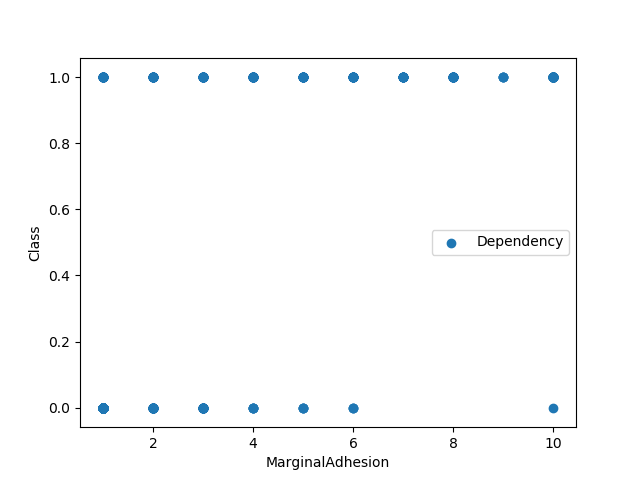
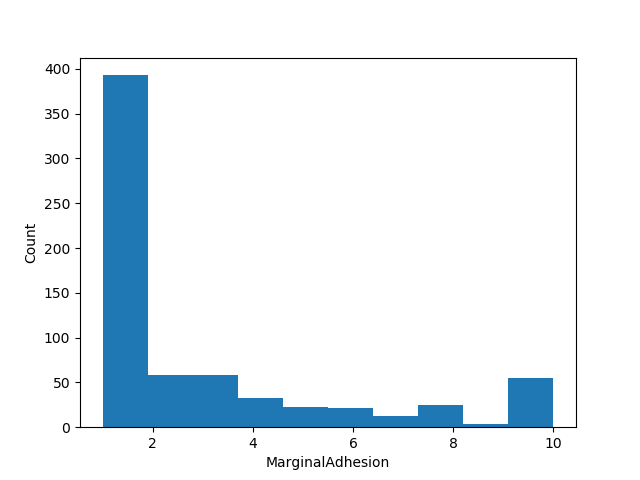
final touches (graph changes)

diff --git a/hist.py b/hist.py
@@ -1,102 +1,88 @@
 import pandas as pd
 import numpy as np
 import matplotlib.pyplot as plt
+from sklearn import preprocessing
 
 df = pd.read_csv('biopsy.csv')
 
 X = df[['ClumpThickness', 'UniformityOfCellSize', 'UniformityOfCellShape', 'MarginalAdhesion', 'EpithelialCellSize', 'BareNuclei', 'BlandChromatin', 'NormalNucleoli', 'Mitoses', 'Class']]
 
-
 X1 = X[['ClumpThickness']].values
-Y1 = X[['Class']].values
 
-bCount=0
-mCount=0
-total=683
-i=range(1,684,1)
-
-plt.scatter(X1,Y1, label='Dependency')
+plt.hist(X1)
 plt.xlabel('ClumpThickeness')
-plt.ylabel('Class')
-plt.legend()
+plt.ylabel('Count')
 plt.show()
 
 
 X2 = X[['UniformityOfCellSize']].values
-Y2 = X[['Class']].values
 
-plt.scatter(X2,Y2, label='Dependency')
+plt.hist(X2)
 plt.xlabel('UniformityOfCellSize')
-plt.ylabel('Class')
-plt.legend()
+plt.ylabel('Count')
 plt.show()
 
 
 X3 = X[['UniformityOfCellShape']].values
-Y3 = X[['Class']].values
 
-plt.scatter(X3,Y3, label='Dependency')
+plt.hist(X3)
 plt.xlabel('UniformityOfCellShape')
-plt.ylabel('Class')
-plt.legend()
+plt.ylabel('Count')
 plt.show()
 
 
 X4 = X[['MarginalAdhesion']].values
-Y4 = X[['Class']].values
 
-plt.scatter(X4,Y4, label='Dependency')
+plt.hist(X4)
 plt.xlabel('MarginalAdhesion')
-plt.ylabel('Class')
-plt.legend()
+plt.ylabel('Count')
 plt.show()
 
 
 X5 = X[['EpithelialCellSize']].values
-Y5 = X[['Class']].values
 
-plt.scatter(X5,Y5, label='Dependency')
+plt.hist(X5)
 plt.xlabel('EpithelialCellSize')
-plt.ylabel('Class')
-plt.legend()
+plt.ylabel('Count')
 plt.show()
 
 
 X6 = X[['BareNuclei']].values
-Y6 = X[['Class']].values
 
-plt.scatter(X6,Y6, label='Dependency')
+plt.hist(X6)
 plt.xlabel('BareNuclei')
-plt.ylabel('Class')
-plt.legend()
+plt.ylabel('Count')
 plt.show()
 
 
 X7 = X[['BlandChromatin']].values
-Y7 = X[['Class']].values
 
-plt.scatter(X7,Y7, label='Dependency')
+plt.hist(X7)
 plt.xlabel('BlandChromatin')
-plt.ylabel('Class')
-plt.legend()
+plt.ylabel('Count')
 plt.show()
 
 
 X8 = X[['NormalNucleoli']].values
-Y8 = X[['Class']].values
 
-plt.scatter(X8,Y8, label='Dependency')
+plt.hist(X8)
 plt.xlabel('NormalNucleoli')
-plt.ylabel('Class')
-plt.legend()
+plt.ylabel('Count')
 plt.show()
 
 
 X9 = X[['Mitoses']].values
-Y9 = X[['Class']].values
 
-plt.scatter(X9,Y9, label='Dependency')
+plt.hist(X9)
 plt.xlabel('Mitoses')
-plt.ylabel('Class')
-plt.legend()
+plt.ylabel('Count')
+plt.show()
+
+
+Y = X[['Class']].values
+
+plt.hist(Y)
+plt.xticks(range(0, 2))
+plt.xlabel('Class')
+plt.ylabel('Count')
 plt.show()
